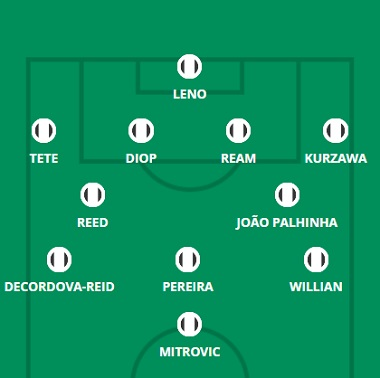
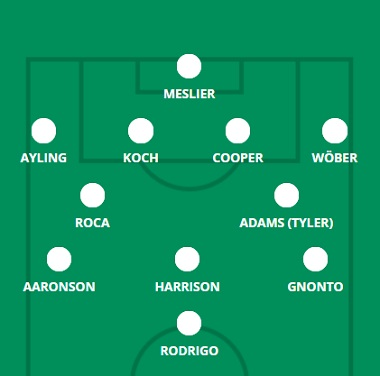
11-20

diff --git a/leeds.html b/leeds.html
@@ -63,15 +63,15 @@
     <hgroup>
         <h1> Provável Escalação</h1>
         <h2 class="direita"> por FabioVascão </h2>
-        <h3 class="direita"> Atualizado em 13/Janeiro/2023 </h3>
+        <h3 class="direita"> Atualizado em 20/Janeiro/2023 </h3>
     </hgroup>
 
     <div class="selecao"><p><b><img src="images/logos/leeds.png" width="100rem" height="100rem"/> Leeds</b></p></div>
        
     <div class="escalacao">
         <div class="topo">
-            <h2 class="titulo">Ultimas Notícias</h2> <h4><p> Stuart Dallas (joelho), Archie Gray (tornozelo) e Luis Sinisterra (pé) continuam indisponíveis e Crysencio Summerville juntou-se a eles nos bastidores, com um problema no tornozelo que o manterá afastado durante um mês. Patrick Bamford (quadril/virilha) está disponível novamente, enquanto Adam Forshaw (quadril) deve voltar a treinar nesta semana após um pequeno procedimento no Ano Novo. O versátil Max Wober estará pressionando para começar, com a nova contratação do RB Salzburg impressionando no meio-campo na FA Cup no fim de semana passado, mas mais em casa como lateral-esquerdo ou meio-campo. Com aquela participação especial de meia hora sendo sua primeira ação competitiva desde novembro, no entanto, ele pode ser gradualmente substituído. Cody Drameh parece estar lutando a três pela vaga de lateral-direito com Luke Ayling e Rasmus Kristensen, enquanto Jack O impacto de Harrison fora do banco na Gameweek 19 certamente o coloca em uma boa posição para ocupar o lugar de Summerville. Illan Meslier, Tyler Adams, Rodrigo, Robin Koch e Willy Gnonto são provavelmente os únicos nomes que podemos dizer com confiança que provavelmente começarão em suas respectivas posições, com até mesmo regulares como Marc Roca e Brenden Aaronson em risco após uma péssima forma desde o reiniciar.</p></h4><br>
-            <h4><strong>Dúvidas:</strong> Dallas, Gray (Archie), Sinisterra, Summerville e Forshaw.</h4>
+            <h2 class="titulo">Ultimas Notícias</h2> <h4><p> Stuart Dallas (joelho), Archie Gray (tornozelo), Crysencio Summerville (tornozelo) e Adam Forshaw (quadril) permanecem de fora, mas Max Wober (quadril) minimizou uma lesão no meio da semana para ser aprovado, enquanto a falta de uma atualização sobre Robin Koch, Pascal Struijk e Liam Cooper - que não participaram da vitória da copa no meio da semana sobre o Cardiff por causa de "batidas" - sugere que eles também estão bem para a visita de Brentford. O recém-recuperado Luis Sinisterra e o recém-chegado Georginio Rutter estarão na equipe neste fim de semana, mas a condição física será um problema para essa dupla de ataque, enquanto Jesse Marsch também certamente deseja evitar o risco de Patrick Bamford se machucar novamente ( novamente) e gerencie os minutos do atacante de acordo. Tudo isso significa que pudemos ver os mesmos quatro atacantes que começaram contra o Aston Villa, com Wilfried Gnonto certamente indestrutível na forma atual. Pode muito bem haver uma mudança na defesa, no entanto, com o versátil Wober impressionando desde a sua chegada: ele pode substituir Cooper ou Struijk na retaguarda, podendo substituir tanto no meio-campo quanto na lateral-esquerda.</p></h4><br>
+            <h4><strong>Dúvidas:</strong> Dallas, Gray (Archie), Cooper, Koch, Summerville e Forshaw.</h4>
         </div>
         <aside>
             <figure>

diff --git a/fulham.html b/fulham.html
@@ -63,15 +63,15 @@
     <hgroup>
         <h1> Provável Escalação</h1>
         <h2 class="direita"> por FabioVascão </h2>
-        <h3 class="direita"> Atualizado em 13/Janeiro/2023 </h3>
+        <h3 class="direita"> Atualizado em 20/Janeiro/2023 </h3>
     </hgroup>
 
     <div class="selecao"><p><b><img src="images/logos/fulham.png" width="80rem" height="90rem"/> Fulham</b></p></div>
        
     <div class="escalacao">
         <div class="topo">
-            <h2 class="titulo">Ultimas Notícias</h2> <h4><p> Neeskens Kebano (Aquiles) continua fora e Shane Duffy está em dúvida por causa da doença, enquanto é um em, um fora na frente de suspensão: Aleksandar Mitrovic retorna de uma suspensão de uma partida, mas Antonee Robinson agora tem que cumprir sua própria suspensão depois de pegar uma quinta reserva da campanha na quinta-feira. Tim Ream pode passar para a lateral-esquerda para cobrir (Issa Diop entrando no meio-campo), mas Marco Silva deu a entender que Layvin Kurzawa iria substituí-lo, dizendo que era um "momento para ele aparecer". A reviravolta de 64 horas é um fator óbvio a se considerar no que diz respeito à seleção do time, mas Silva não se preocupou com as mudanças nos períodos anteriores de maior movimento: na semana de três jogos entre o Natal e o Ano Novo, por exemplo, sua única alteração foi Tosin Adarabioyo substitui Issa Diop no meio-campo. Dan James e Harry Wilson são possibilidades amplas, mas não exatamente exigentes para serem incluídos por mérito, enquanto Tom Cairney é alguém que repetidamente impressionou fora do banco, mas continua sendo usado como um substituto de impacto.</p></h4><br>
-            <h4><strong>Dúvidas:</strong> Kebano, Duffy e Robinson. </h4>
+            <h2 class="titulo">Ultimas Notícias</h2> <h4><p> Marco Silva disse na sexta-feira que espera ter todos, exceto o ausente de longa data Neeskens Kebano (Aquiles), disponível para a visita do Spurs, com Antonee Robinson retornando de uma suspensão de um jogo para aumentar ainda mais os números. Silva favoreceu a consistência da seleção na ascensão do Fulham na Premier League, com 10 dos XI previstos aqui começando todas as partidas para as quais estiveram disponíveis desde o reinício. A única vaga em disputa foi ao lado de Tim Ream, com Tosin Adarabioyo e Issa Diop dividindo o tempo de jogo no meio-campo: o primeiro começou os dois jogos da Double Gameweek 19, o último começou os seis jogos da liga em ambos os lados. Silva não ajudou em sua entrevista pré-jogo, dizendo aos repórteres que eles teriam que "esperar" e ver a resposta, então a incerteza semana a semana se arrasta no coração da defesa. Espera-se que Robinson substitua Layvin Kurzawa na lateral-esquerda após cumprir sua suspensão, com Kurzawa caindo para o banco ao lado de nomes como Manor Solomon, Dan James, Harry Wilson e Tom Cairney.</p></h4><br>
+            <h4><strong>Dúvidas:</strong> Kebano. </h4>
         </div>
         <aside>
             <figure>
